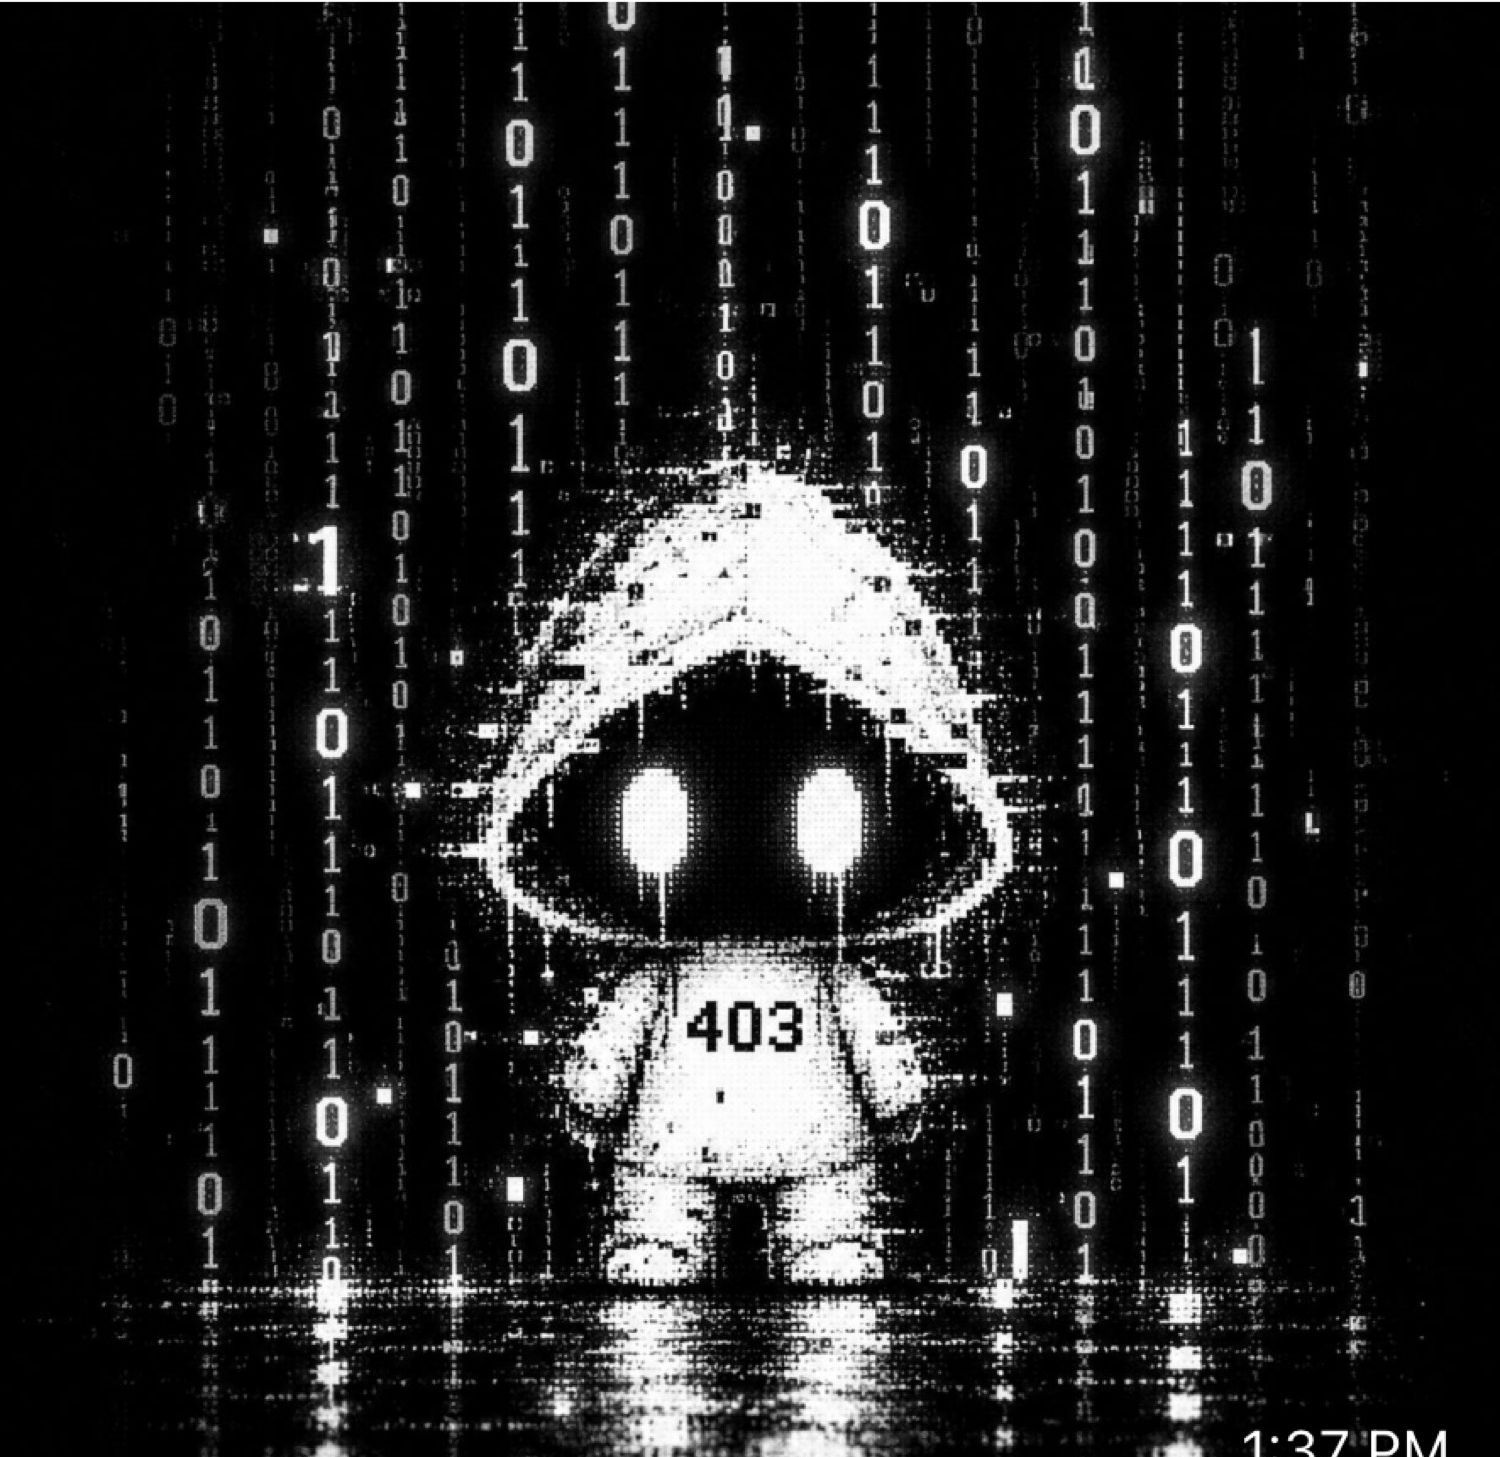
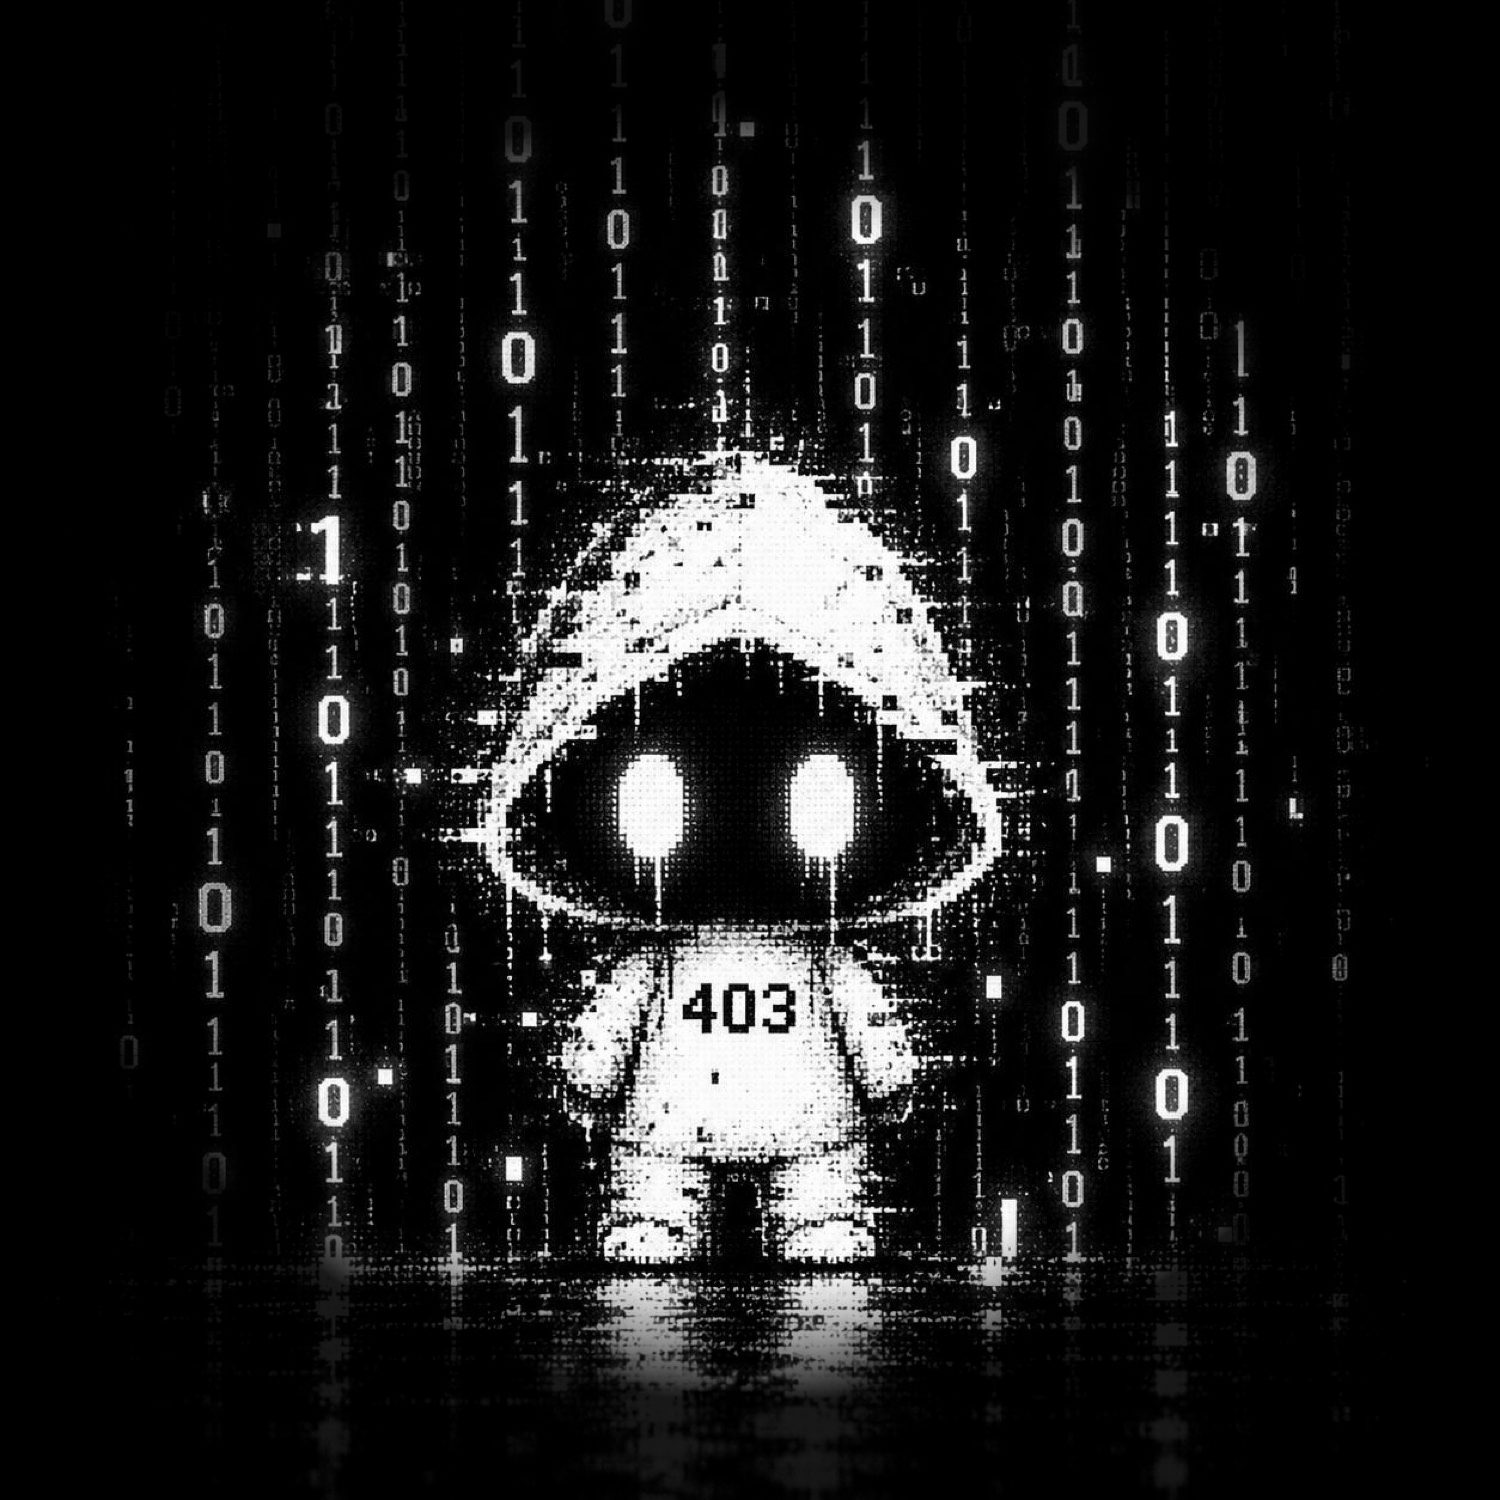
Add files via upload

diff --git a/style.css b/style.css
@@ -147,6 +147,7 @@ img { max-width: 100%; height: auto; display: block; }
 .topbar,
 .hero,
 .lore,
+.token,
 .log,
 footer {
   position: relative;
@@ -223,17 +224,28 @@ footer {
   100% { clip-path: inset(75% 0 0 0); }
 }
 
-.banner-wrap,
-.figure-wrap {
+.banner-wrap {
   margin: 0 auto;
-  max-width: 920px;
+  max-width: 1100px;
+}
+
+.figure-wrap {
+  margin: 28px auto 32px;
+  max-width: 560px;
 }
 
 .banner-wrap img,
 .figure-wrap img {
   width: 100%;
-  filter: contrast(1.08);
-  border: 1px solid rgba(255, 255, 255, 0.08);
+  border: 0;
+  -webkit-mask-image:
+    linear-gradient(to right, transparent, #000 7%, #000 93%, transparent),
+    linear-gradient(to bottom, transparent, #000 8%, #000 90%, transparent);
+  -webkit-mask-composite: source-in;
+  mask-image:
+    linear-gradient(to right, transparent, #000 7%, #000 93%, transparent),
+    linear-gradient(to bottom, transparent, #000 8%, #000 90%, transparent);
+  mask-composite: intersect;
 }
 
 .lore {
@@ -268,6 +280,51 @@ footer {
 
 .figure-wrap { margin: 28px auto 32px; max-width: 560px; }
 
+.token {
+  max-width: 860px;
+  margin: 8px auto 36px;
+  padding: 0 22px;
+  text-align: center;
+}
+
+#ca {
+  display: block;
+  width: 100%;
+  margin: 8px 0 6px;
+  padding: 14px 12px;
+  border: 1px solid #fff;
+  background: transparent;
+  color: #fff;
+  font-family: inherit;
+  font-size: clamp(12px, 2.4vw, 16px);
+  letter-spacing: 0.04em;
+  word-break: break-all;
+  cursor: pointer;
+}
+
+#ca.copied { background: #fff; color: #000; }
+
+#ca-wait,
+#ca-hint,
+.chart-links {
+  margin: 8px 0 0;
+  color: var(--dim);
+  font-size: 11px;
+  letter-spacing: 0.18em;
+  text-transform: uppercase;
+}
+
+#chart-wrap { margin-top: 18px; }
+
+#chart {
+  width: 100%;
+  height: 520px;
+  border: 0;
+  background: #000;
+}
+
+.chart-links a { color: #fff; }
+
 .closer {
   letter-spacing: 0.06em;
   color: #fff !important;
@@ -279,6 +336,24 @@ footer {
   letter-spacing: 0.18em;
   color: #fff !important;
 }
+
+.socials {
+  display: flex;
+  justify-content: center;
+  gap: 22px;
+  margin: 18px 0 0;
+  letter-spacing: 0.16em;
+  text-transform: uppercase;
+  font-size: 12px;
+}
+
+.socials a {
+  color: #fff;
+  text-decoration: none;
+  border-bottom: 1px solid rgba(255, 255, 255, 0.4);
+}
+
+.socials a:hover { border-bottom-color: #fff; }
 
 .log {
   max-width: 720px;
@@ -321,6 +396,13 @@ footer {
   letter-spacing: 0.22em;
   font-size: 11px;
   border-top: 1px solid var(--line);
+}
+
+footer .socials {
+  margin: 0 0 14px;
+  font-size: 11px;
+  letter-spacing: 0.12em;
+  text-transform: none;
 }
 
 body.reduced #rain,

diff --git a/main.js b/main.js
@@ -100,6 +100,7 @@
     site.hidden = false;
     paintLog();
     startRain();
+    loadCa();
     setTimeout(function () {
       gate.remove();
     }, 800);
@@ -131,6 +132,62 @@
   }
 
   gate.addEventListener("click", breakGate);
+
+  function loadCa() {
+    var button = document.getElementById("ca");
+    var wait = document.getElementById("ca-wait");
+    var hint = document.getElementById("ca-hint");
+    var wrap = document.getElementById("chart-wrap");
+    var frame = document.getElementById("chart");
+    var link = document.getElementById("chart-link");
+    fetch("ca.txt?t=" + Date.now(), { cache: "no-store" })
+      .then(function (res) { return res.ok ? res.text() : ""; })
+      .then(function (text) {
+        var ca = "";
+        text.split(/\r?\n/).forEach(function (line) {
+          line = line.trim();
+          if (!ca && line && line.charAt(0) !== "#") ca = line.split(/\s+/)[0];
+        });
+        if (!/^[1-9A-HJ-NP-Za-km-z]{32,44}$/.test(ca)) return;
+        button.hidden = false;
+        button.textContent = ca;
+        wait.hidden = true;
+        hint.hidden = false;
+        button.addEventListener("click", function () {
+          var done = function () {
+            button.classList.add("copied");
+            hint.textContent = "copied";
+            setTimeout(function () {
+              button.classList.remove("copied");
+              hint.textContent = "click to copy";
+            }, 1200);
+          };
+          if (navigator.clipboard && navigator.clipboard.writeText) {
+            navigator.clipboard.writeText(ca).then(done).catch(function () {
+              fallbackCopy(ca);
+              done();
+            });
+          } else {
+            fallbackCopy(ca);
+            done();
+          }
+        });
+        var chart = "https://dexscreener.com/solana/" + ca + "?embed=1&loadChartSettings=0&trades=0&tabs=0&info=0&chartLeftToolbar=0&chartTheme=dark&theme=dark&chartStyle=1&chartType=usd&interval=15";
+        frame.src = chart;
+        link.href = "https://dexscreener.com/solana/" + ca;
+        wrap.hidden = false;
+      })
+      .catch(function () {});
+  }
+
+  function fallbackCopy(value) {
+    var area = document.createElement("textarea");
+    area.value = value;
+    document.body.appendChild(area);
+    area.select();
+    try { document.execCommand("copy"); } catch (err) {}
+    area.remove();
+  }
 
   window.addEventListener("resize", function () {
     if (revealed && !reduced) sizeCanvas(rain);

diff --git a/index.html b/index.html
@@ -39,7 +39,7 @@
       <p class="kicker">error://network/forbidden</p>
       <h1 class="mark" data-text="FORBIDDEN — $403">FORBIDDEN — $403</h1>
       <figure class="banner-wrap">
-        <img src="403-banner.jpg" alt="Glitched 403 hooded figure between a broken 4 and 3" width="1500" height="894">
+        <img src="403-banner.jpg" alt="Glitched 403 between a broken 4 and 3, access forbidden, identity unknown" width="1500" height="500">
       </figure>
     </section>
 
@@ -52,12 +52,27 @@
       <p class="response">403 — ACCESS FORBIDDEN.</p>
 
       <figure class="figure-wrap">
-        <img src="403-figure.jpg" alt="Hooded 403 standing in falling binary" width="1500" height="1457">
+        <img src="403-figure.jpg" alt="Hooded 403 standing in falling binary" width="1500" height="1500">
       </figure>
 
       <p class="closer">The hood stays on.<br>The code stays hidden.</p>
       <p class="sig">$403</p>
+      <p class="socials">
+        <a href="https://x.com/forbiddenonsol" target="_blank" rel="noopener">X</a>
+        <a href="https://t.me/forbiddenonsol" target="_blank" rel="noopener">Telegram</a>
+      </p>
     </article>
+
+    <section class="token" aria-label="Contract">
+      <p class="log-label">contract</p>
+      <button id="ca" type="button" hidden>loading</button>
+      <p id="ca-wait">CA classified. No address on file.</p>
+      <p id="ca-hint" hidden>click to copy</p>
+      <div id="chart-wrap" hidden>
+        <iframe id="chart" title="Live $403 chart" loading="lazy" allow="clipboard-write" referrerpolicy="no-referrer-when-downgrade"></iframe>
+        <p class="chart-links"><a id="chart-link" href="#" target="_blank" rel="noopener">dexscreener</a></p>
+      </div>
+    </section>
 
     <section class="log" aria-label="Access log">
       <p class="log-label">access.log</p>
@@ -65,6 +80,10 @@
     </section>
 
     <footer>
+      <p class="socials">
+        <a href="https://x.com/forbiddenonsol" target="_blank" rel="noopener">x.com/forbiddenonsol</a>
+        <a href="https://t.me/forbiddenonsol" target="_blank" rel="noopener">t.me/forbiddenonsol</a>
+      </p>
       <span id="foot-sig">403 — ACCESS FORBIDDEN</span>
     </footer>
   </main>

diff --git a/README.md b/README.md
@@ -11,4 +11,7 @@ Flat static site. No build step. No subdirectories.
 
 `index.html` is the entry. On load it shows an Apache/Ubuntu 403, then the page corrupts and reveals the lore site.
 
+`ca.txt` is the contract file. Put the mint on its own line under the comments. The page reads that file, makes the address click-to-copy, and loads the DexScreener chart. Until a real address is there, the chart stays hidden.
+
+
 Click the forbidden page to break it early.
